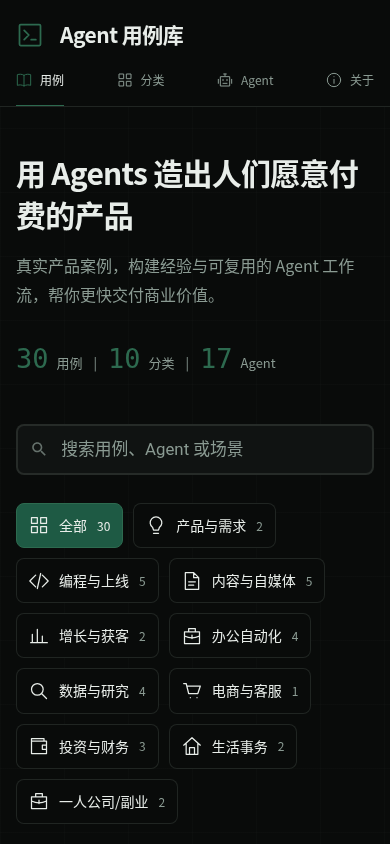
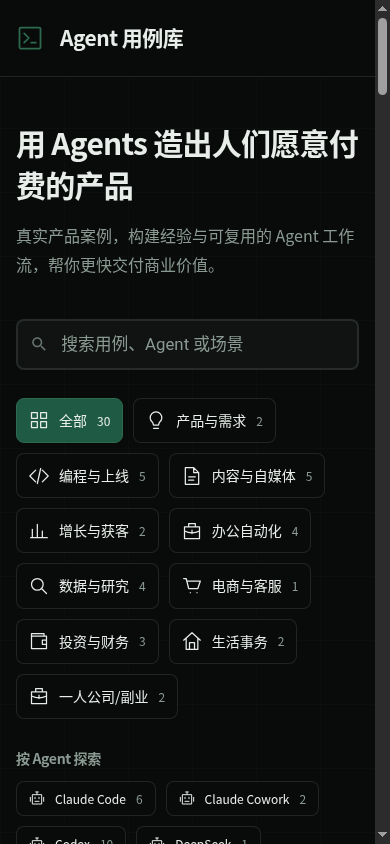
Remove header nav and hero stats from homepage
Drop the right-side header links and the case/category/agent stats row under the hero; keep brand, hero copy, search, chips, and agent explore. Clean unused CSS and refresh the mobile screenshot.

diff --git a/src/styles/global.css b/src/styles/global.css
@@ -28,22 +28,15 @@ button, input { font: inherit; }
 .icon { flex-shrink: 0; vertical-align: middle; }
 .container { width: min(1040px, calc(100% - 48px)); margin-inline: auto; }
 .site-header { border-bottom: 1px solid var(--border); background: var(--bg); }
-.header-inner { display: flex; align-items: center; justify-content: space-between; gap: 24px; min-height: 76px; }
+.header-inner { display: flex; align-items: center; min-height: 76px; }
 .brand, .footer-brand { display: inline-flex; align-items: center; gap: 16px; }
 .brand { font-size: 21px; font-weight: 600; letter-spacing: -.025em; }
 .brand .icon { color: var(--accent); }
-nav { display: flex; gap: 28px; font-size: 14px; }
-nav a { display: flex; align-items: center; gap: 8px; color: var(--muted); padding-block: 24px; border-bottom: 1px solid transparent; }
-nav a[aria-current="page"] { color: var(--text); border-color: var(--accent); }
-nav a[aria-current="page"] .icon { color: var(--accent); }
 main { min-height: 75vh; padding-bottom: 88px; }
 .hero { padding: 70px 0 0; margin: 0 0 40px; }
 h1, h2, h3 { line-height: 1.4; font-weight: 600; letter-spacing: -.025em; text-wrap: pretty; }
 h1 { font-size: clamp(30px, 4vw, 44px); margin: 0 0 16px; }
 .hero > p { color: var(--muted); font-size: 20px; margin: 0; }
-.stats { display: flex; align-items: baseline; gap: 12px; flex-wrap: wrap; color: var(--muted); font-size: 15px; margin-top: 26px; }
-.stats strong { color: var(--accent); font-size: 27px; font-weight: 500; font-family: ui-monospace, monospace; }
-.stats > span { margin-inline: 10px; }
 section { margin-block: 44px; }
 h2 { display: flex; align-items: center; gap: 12px; font-size: 19px; margin: 0 0 20px; }
 .search-panel { margin-block: 40px 28px; }
@@ -133,10 +126,6 @@ pre { font-family: ui-monospace, SFMono-Regular, Consolas, "PingFang SC", monosp
 .empty { padding: 40px 24px; border: 1px dashed var(--border); border-radius: 8px; color: var(--muted); }
 footer { border-top: 1px solid var(--border); padding-block: 28px; font-size: 12px; color: var(--muted); display: flex; flex-wrap: wrap; justify-content: space-between; gap: 16px; }
 @media (max-width: 700px) {
- .header-inner { flex-wrap: wrap; gap: 0; padding-top: 16px; }
- nav { width: 100%; justify-content: space-between; gap: 12px; }
- nav a { padding-block: 15px; font-size: 12px; }
- nav .icon { width: 16px; }
  .hero { padding-top: 44px; }
  .hero > p { font-size: 16px; }
  .case-list { grid-template-columns: 1fr; }
@@ -145,8 +134,6 @@ footer { border-top: 1px solid var(--border); padding-block: 28px; font-size: 12
 }
 @media (max-width: 420px) {
  .container { width: calc(100% - 32px); }
- .stats { gap: 8px; font-size: 13px; }
- .stats > span { margin-inline: 3px; }
  .chip { padding: 9px 12px; }
  .detail-meta { gap: 12px 18px; }
  .facts { grid-template-columns: 1fr; }
